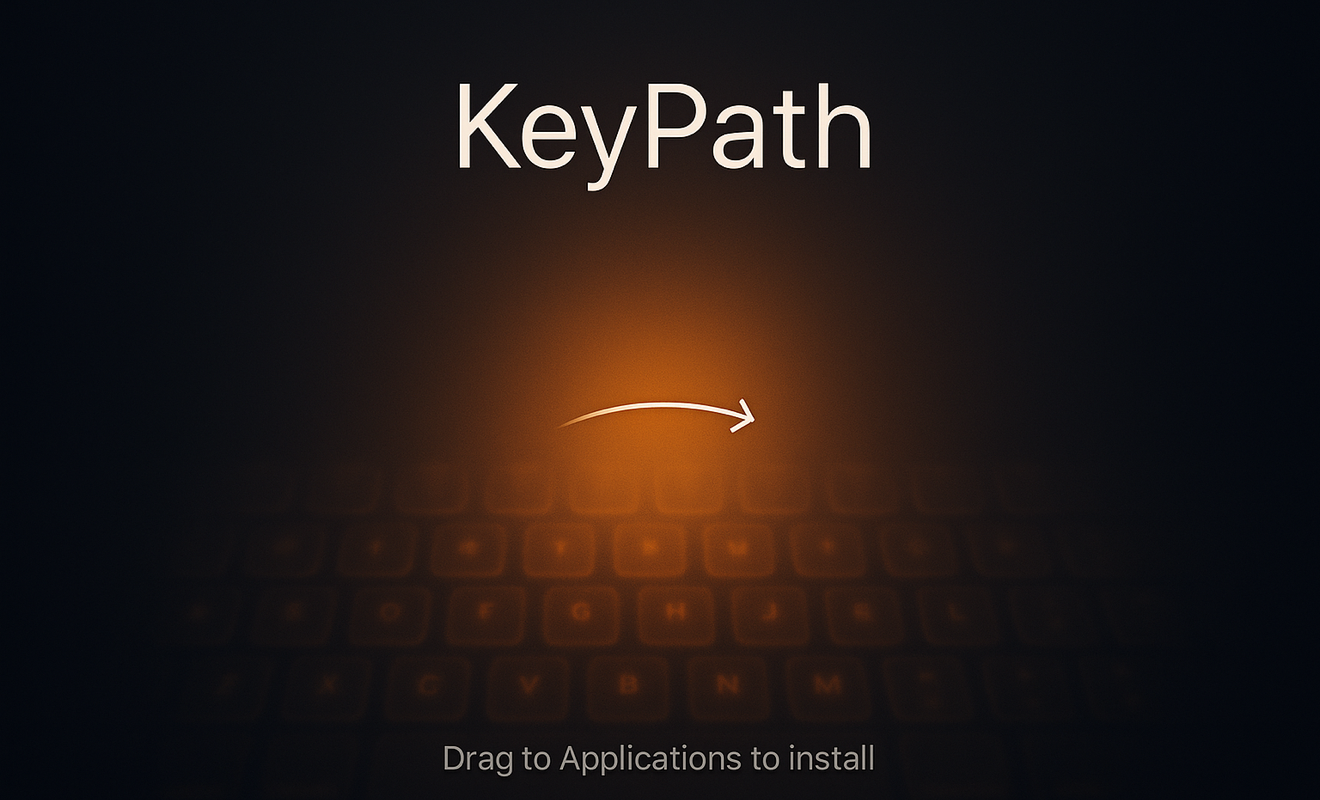
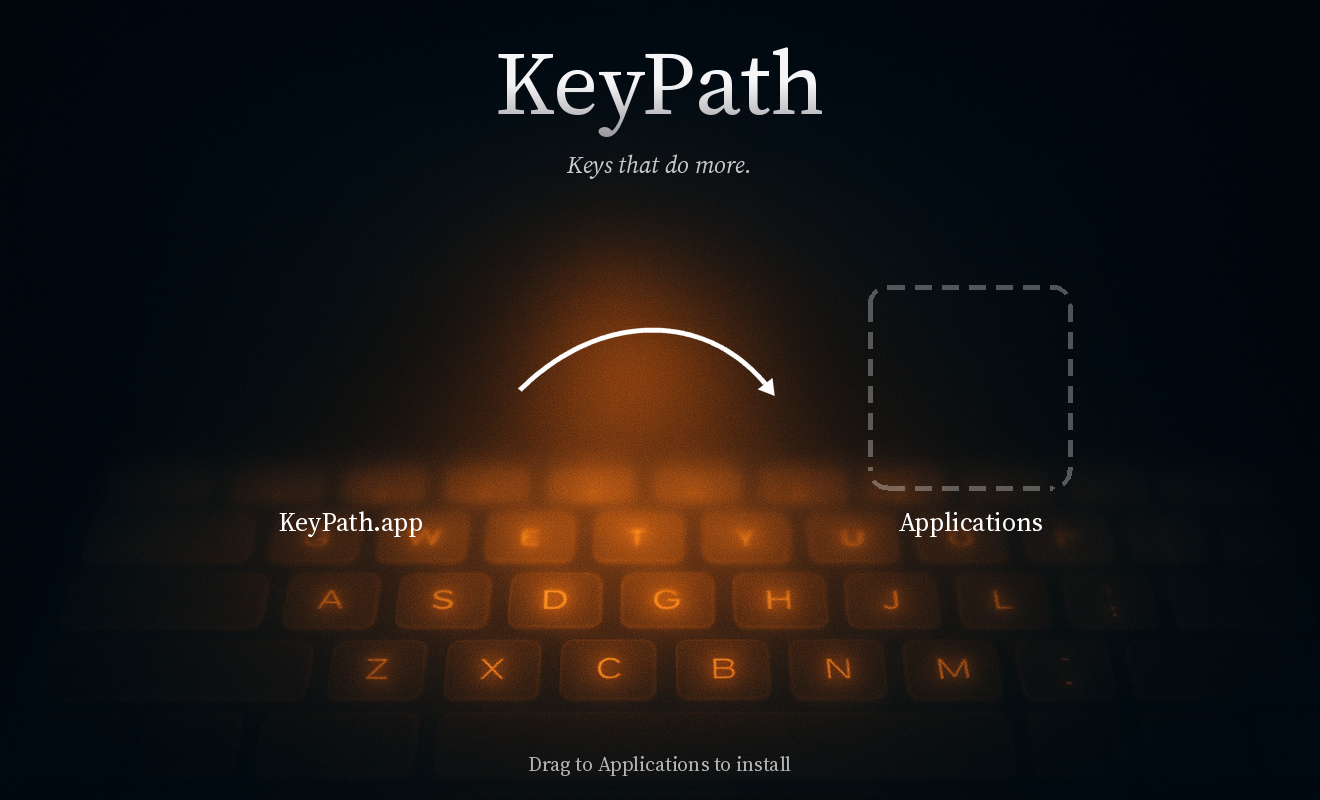
feat: add "Keys that do more." tagline across README, DMG, and About panel
- README hero tagline updated
- DMG background includes italic tagline below title
- About panel credits show tagline
- New clean keyboard background with glowing legends for DMG

diff --git a/Sources/KeyPathAppKit/Core/AppMenuCommands.swift b/Sources/KeyPathAppKit/Core/AppMenuCommands.swift
@@ -207,7 +207,7 @@ struct AppMenuCommands: Commands {
 
     private func showAboutPanel() {
         let info = BuildInfo.current()
-        var detailLines = ["Build \(info.build) \u{2022} \(info.git) \u{2022} \(info.date)"]
+        var detailLines = ["Keys that do more.", "", "Build \(info.build) \u{2022} \(info.git) \u{2022} \(info.date)"]
         if let kanataVersion = info.kanataVersion {
             detailLines.append("Kanata \(kanataVersion)")
         }

diff --git a/dev-tools/dmg/dmgbuild-settings.py b/dev-tools/dmg/dmgbuild-settings.py
@@ -1,0 +1,24 @@
+import os
+
+DMG_DIR = os.environ.get("DMG_DIR", "/Users/malpern/local-code/KeyPath/dev-tools/dmg")
+APP_PATH = os.environ.get("DMG_APP_PATH", "/Users/malpern/local-code/KeyPath/dist/KeyPath.app")
+
+volume_name = "KeyPath"
+format = "UDZO"
+filesystem = "HFS+"
+
+window_rect = ((200, 120), (660, 400))
+icon_size = 128
+text_size = 14
+
+background = os.path.join(DMG_DIR, "[email redacted]")
+background_dark = os.path.join(DMG_DIR, "[email redacted]")
+
+files = [APP_PATH]
+symlinks = {"Applications": "/Applications"}
+hide_extensions = ["KeyPath.app"]
+
+icon_locations = {
+    os.path.basename(APP_PATH): (175, 200),
+    "Applications": (485, 200),
+}

diff --git a/README.md b/README.md
@@ -3,10 +3,10 @@
 <div align="center">
 
   <a href="https://keypath-app.com">
-    <img src="https://malpern.github.io/KeyPath/images/keypath-hero-nobg.png" alt="KeyPath — Turn your keyboard into a command center" width="800"/>
+    <img src="https://malpern.github.io/KeyPath/images/keypath-hero-nobg.png" alt="KeyPath — Keys that do more" width="800"/>
   </a>
 
-  ### Turn your keyboard into a command center
+  ### Keys that do more.
 
   Remap keys, launch apps, tile windows, and automate workflows — all without leaving the home row.
 